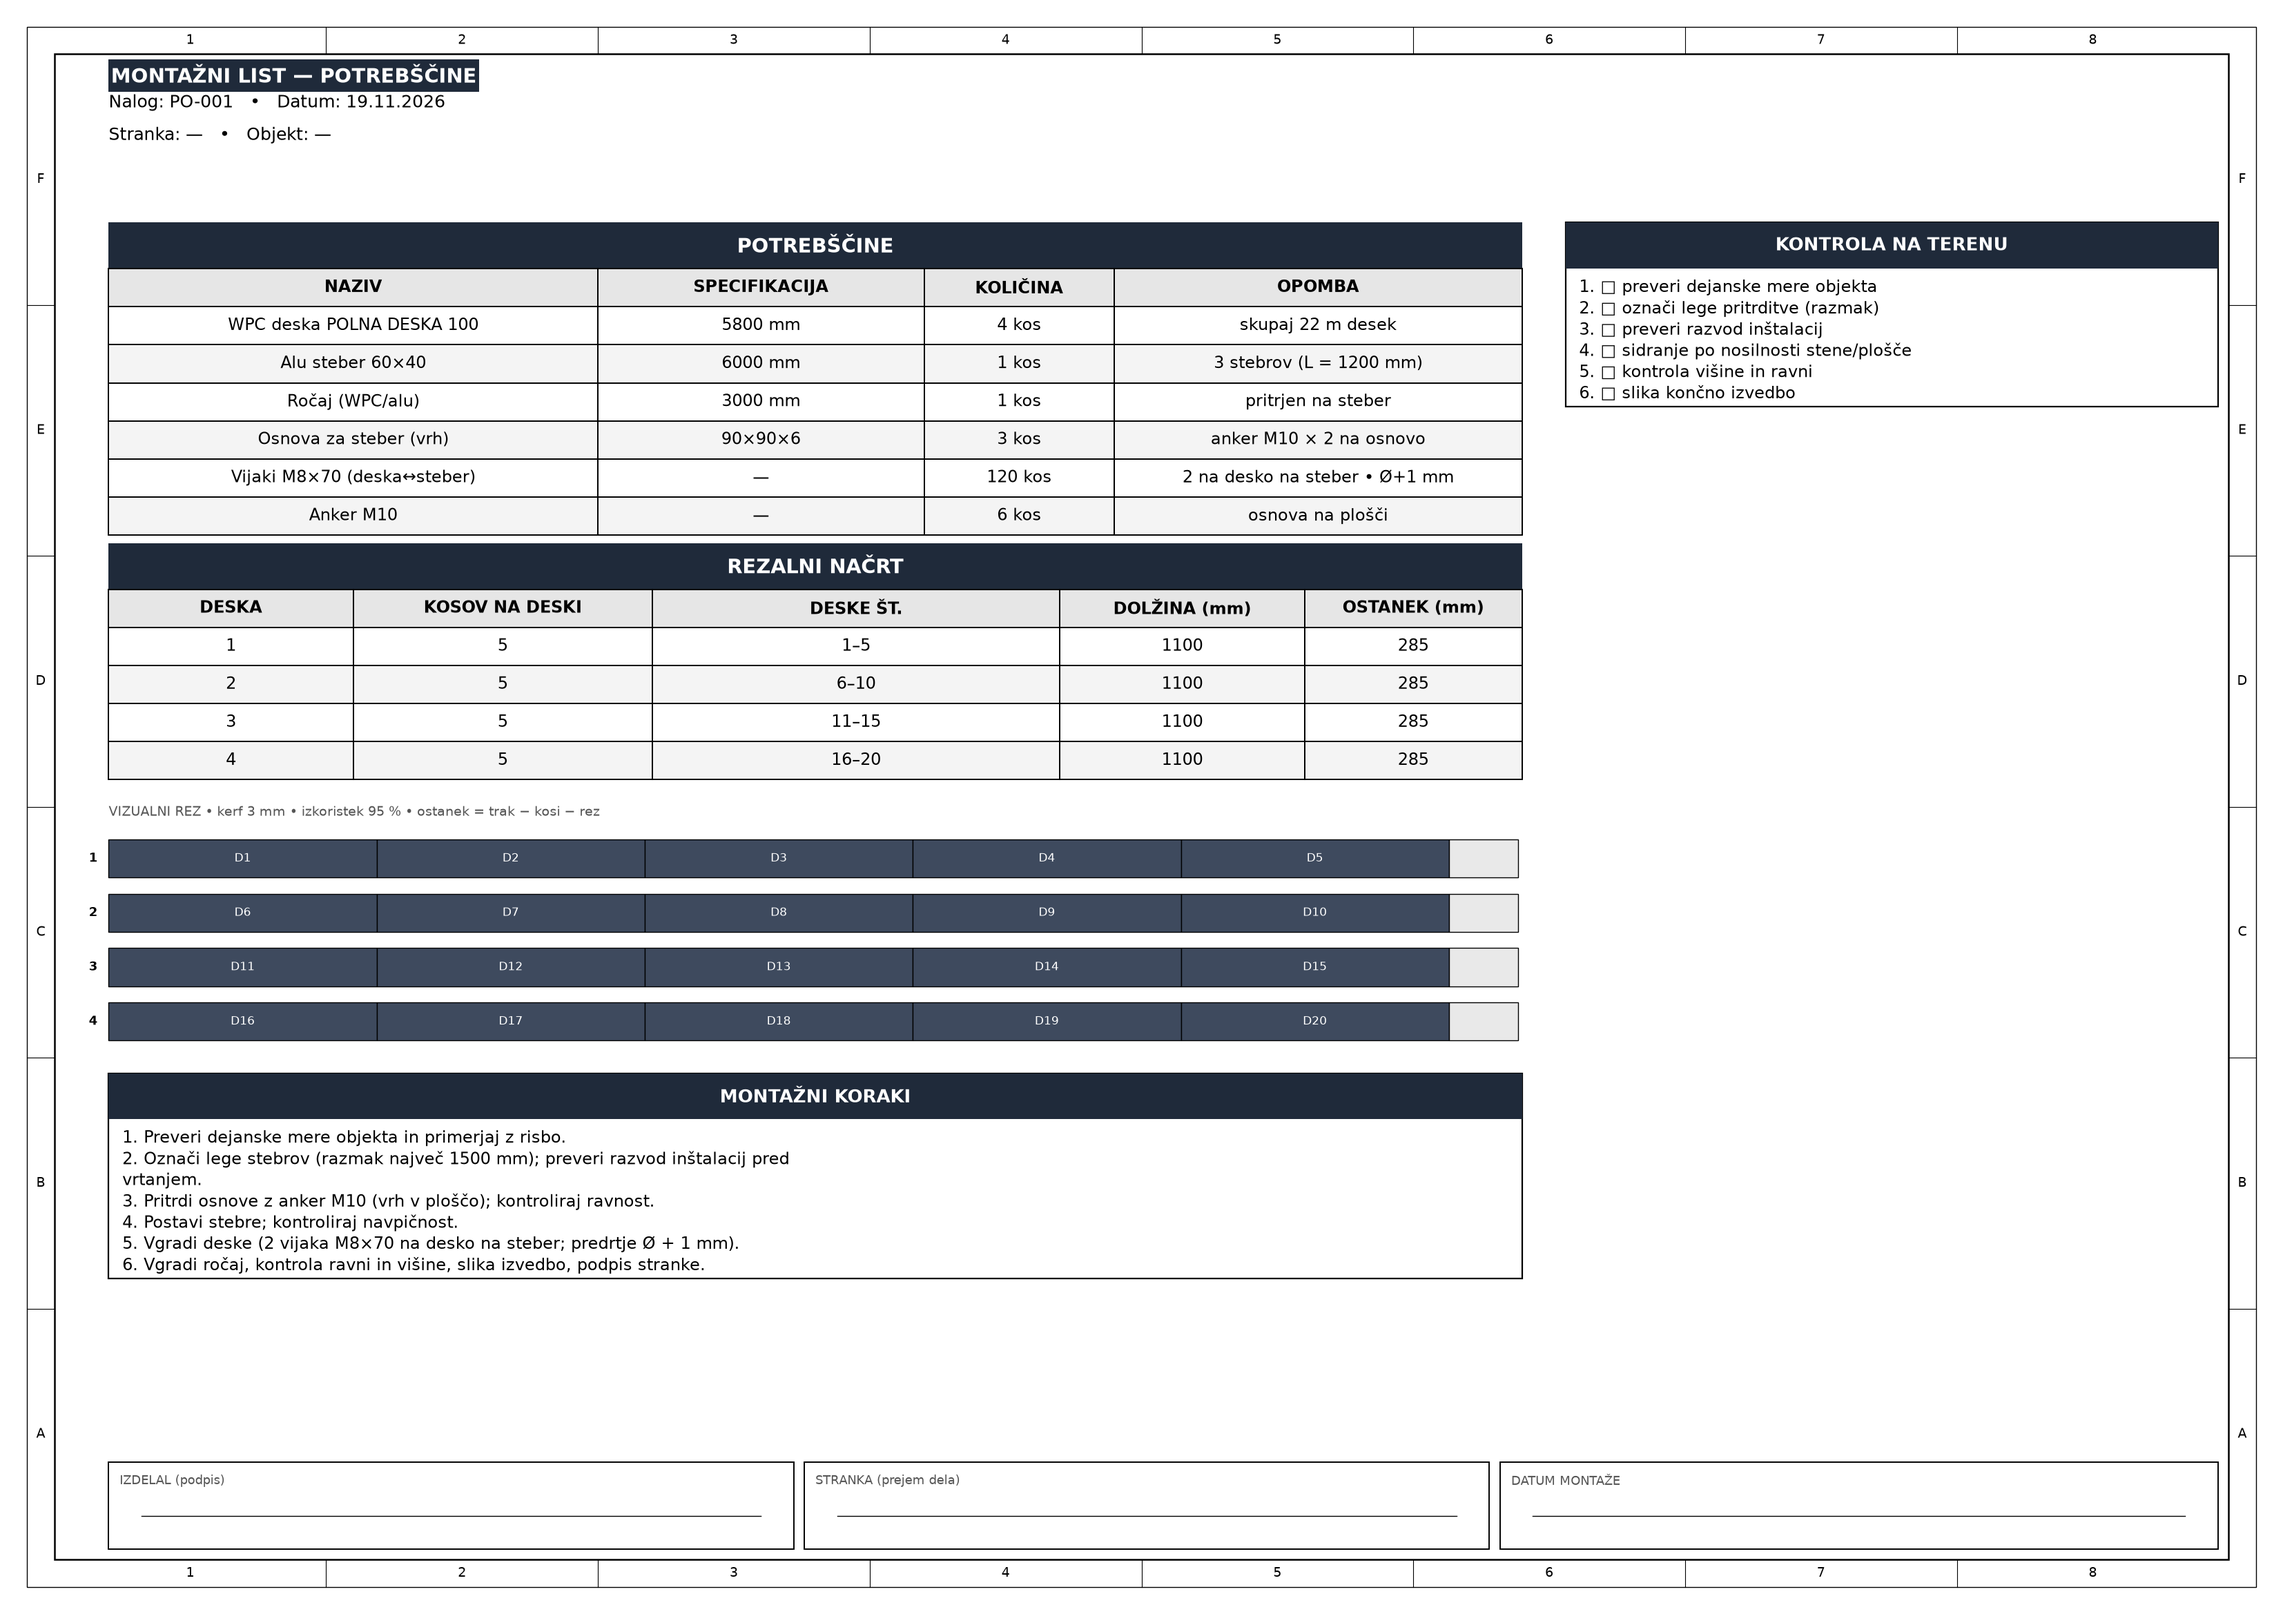
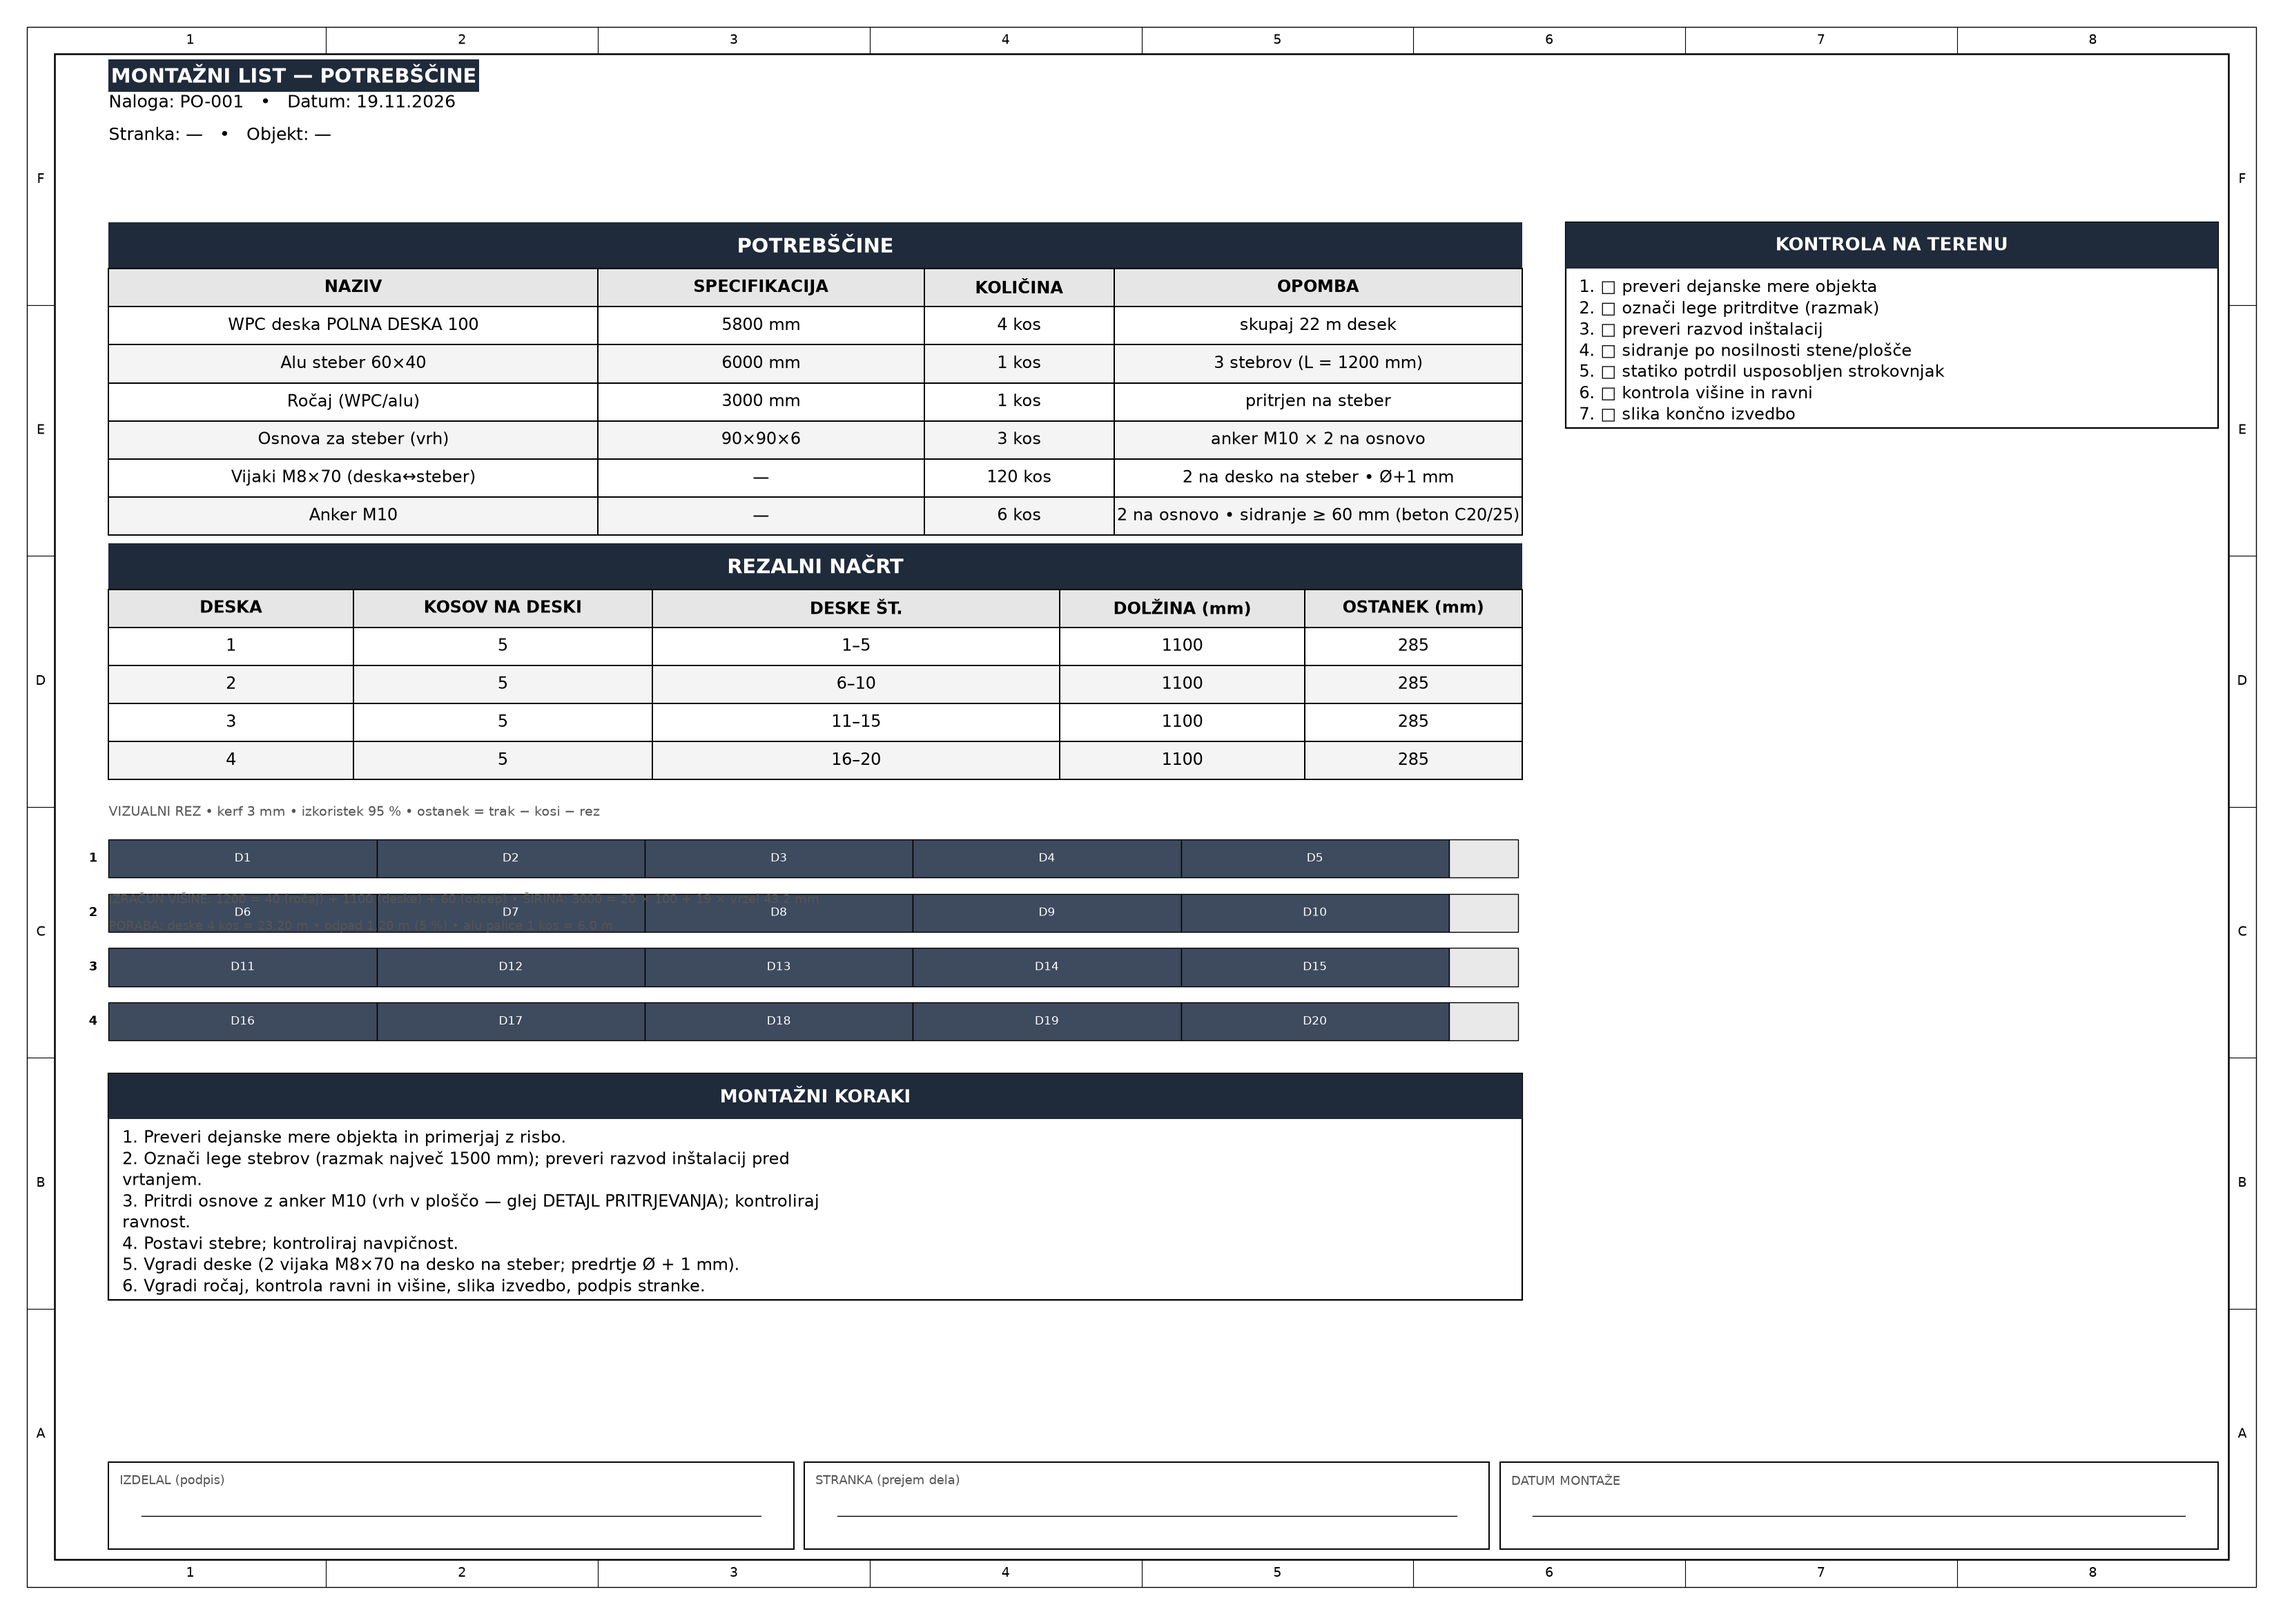
Popravki P0 po auditu: NameError montaznega lista pokončna, import yaml (predračun na Vercelu), tempfile namesto fiksne /tmp poti, samodejno nalaganje nastavitev, zaščita sir>=dolzina_deske, IMA_CV, off-by-one oznak, izkoristek po vseh trakih, izračun višine na pravilni osi, nabavne dolžine v predra

diff --git a/risba.py b/risba.py
@@ -1213,10 +1213,8 @@ def narisi_montazni_list(ax, c):
     pot = [
         [f"WPC deska {profil}", f"{fmt(dl_deske)} mm", f"{deske} kos",
          f"skupaj {fmt(n * sir / 1000)} m lamel"],
-        ["Alu profil 80×40×3", f"{fmt(dl_palice)} mm", f"{palice} kos",
-         "zgornji profil"],
-        ["Alu profil 60×40×3", f"{fmt(dl_palice)} mm", "1 kos",
-         "spodnji profil"],
+        ["Alu profili 80×40 (zg.) + 60×40 (sp.)", f"{fmt(dl_palice)} mm",
+         f"{palice} kos", f"obe sta dolgi {fmt(sir)} mm"],
         ["Nosilni nosilec 50×50×5", "—", f"{n_nos} kos",
          f"razmak ≤ {fmt(raz)} mm"],
         ["RF vijaki M8×70 (lamela↔profil)", "—", f"{vijaki} kos",
@@ -1238,11 +1236,11 @@ def narisi_montazni_list(ax, c):
                              fmt(sir), fmt(ost)])
         if deske > prikaz:
             rez_rows.append(["…", "", f"skupaj {deske} desk", "", ""])
-        for i in range(min(deske, 5)):
+        for i in range(deske):
             zac = min(na_desko, n - i * na_desko)
             prva = i * na_desko + 1
             viz_traki.append((dl_deske,
-                              [(f"L{prva + j + 1}", sir) for j in range(zac)]))
+                              [(f"L{prva + j}", sir) for j in range(zac)]))
     koraki = [
         "Preveri dejanske mere objekta in primerjaj z risbo.",
         f"Označi lego nosilcev (razmak največ {fmt(raz)} mm); "
@@ -1260,7 +1258,8 @@ def narisi_montazni_list(ax, c):
 
     # izračun višine + poraba/odpad (viden na montažnem listu)
     cona_z = zg[0] - sp[1]
-    y_iz = 197 - (8.5 + 7 + (len(rez_rows) - 1) * 7) - 22
+    n_vrst_r = (len(rez_rows) - 1) if rez_rows else 0
+    y_iz = 197 - (8.5 + 7 + n_vrst_r * 7) - 22
     ax.text(20, y_iz, f"IZRAČUN VIŠINE: {fmt(m['visina'])} = "
             f"{fmt(m['profil_v'])} (zgornji profil) + {fmt(cona_z)} "
             f"(lamele: {n} × {fmt(m['lamela_v'])} + {n - 1} × vrzel "
@@ -1273,11 +1272,13 @@ def narisi_montazni_list(ax, c):
             f"odpad {odp_m:.2f} m ({odp_m / por_m * 100:.0f} %) • alu "
             f"palice {palice} kos = {palice * dl_palice / 1000:.1f} m",
             fontsize=6.5, color="#555555", ha="left", va="center")
+    por_m = deske * dl_deske / 1000
+    por_alu = palice * dl_palice / 1000
     kolicine = {"postavke": [
-        (f"WPC deske {profil}", f"{fmt(n * sir / 1000)}", "m",
-         "wpc_deska_m", n * sir / 1000),
-        ("Alu profili 80×40 + 60×40", f"{fmt(2 * sir / 1000)}", "m",
-         "alu_m", 2 * sir / 1000),
+        (f"WPC deske {profil} (nabava)", f"{deske} kos = {fmt(por_m)}",
+         "m", "wpc_deska_m", por_m),
+        ("Alu profili (nabava)", f"{palice} kos = {fmt(por_alu)}", "m",
+         "alu_m", por_alu),
         ("Nosilni nosilci 50×50×5", f"{n_nos}", "kos", "nosilec_kos", n_nos),
         ("RF vijaki M8×70", f"{vijaki}", "kos", "vijak_kos", vijaki),
         ("Fasadni vijaki Ø8×80 + tipli", f"{n_nos * 2}", "kos",
@@ -1290,6 +1291,7 @@ def narisi_montazni_pokoncna(ax, c):
     """Stran 2 za predlogo "pokončna" (stebri + navpične deske)."""
     m = c["mere"]
     sir, vis = m["sirina"], m["visina"]
+    odcep = m["odcep"]
     p = razpored_pokoncna(m)
     n_d, n_s = p["n_desk"], p["n_stebrov"]
     deska_h = p["deske_h"]
@@ -1331,7 +1333,7 @@ def narisi_montazni_pokoncna(ax, c):
                              fmt(deska_h), fmt(ost)])
         if deske > prikaz:
             rez_rows.append(["…", "", f"skupaj {deske} desk", "", ""])
-        for i in range(min(deske, 5)):
+        for i in range(deske):
             zac = min(na_desko, n_d - i * na_desko)
             prva = i * na_desko + 1
             viz_traki.append((dl_deske,
@@ -1352,11 +1354,12 @@ def narisi_montazni_pokoncna(ax, c):
     montazni_osnova(ax, c, pot, rez_rows, viz_traki, koraki)
 
     cona_z = p["deske_z"][1] - p["deske_z"][0]
-    y_iz = 197 - (8.5 + 7 + (len(rez_rows) - 1) * 7) - 22
+    n_vrst_r = (len(rez_rows) - 1) if rez_rows else 0
+    y_iz = 197 - (8.5 + 7 + n_vrst_r * 7) - 22
     ax.text(20, y_iz, f"IZRAČUN VIŠINE: {fmt(vis)} = {fmt(m['rocaj_v'])} "
-            f"(ročaj) + {fmt(deska_h)} (deske: {n_d} × "
-            f"{fmt(m['deska_sirina'])} + {n_d - 1} × vrzel "
-            f"{p['vrzel']:.1f} mm) + {fmt(odcep)} (odcep)",
+            f"(ročaj) + {fmt(deska_h)} (deske) + {fmt(odcep)} (odcep) • "
+            f"ŠIRINA: {fmt(sir)} = {n_d} × {fmt(m['deska_sirina'])} + "
+            f"{n_d - 1} × vrzel {p['vrzel']:.1f} mm",
             fontsize=6.5, color="#555555", ha="left", va="center")
     por_s = deske * dl_deske / 1000
     odp_s = por_s - n_d * deska_h / 1000
@@ -1364,11 +1367,13 @@ def narisi_montazni_pokoncna(ax, c):
             f"odpad {odp_s:.2f} m ({odp_s / por_s * 100:.0f} %) • alu "
             f"palice {palice_s} kos = {palice_s * dl_palice / 1000:.1f} m",
             fontsize=6.5, color="#555555", ha="left", va="center")
+    por_s = deske * dl_deske / 1000
+    por_st = palice_s * dl_palice / 1000
     return {"postavke": [
-        (f"WPC deske {profil}", f"{fmt(n_d * deska_h / 1000)}", "m",
-         "wpc_deska_m", n_d * deska_h / 1000),
-        ("Alu stebri 60×40", f"{fmt(n_s * vis / 1000)}", "m",
-         "alu_m", n_s * vis / 1000),
+        (f"WPC deske {profil} (nabava)", f"{deske} kos = {fmt(por_s)}",
+         "m", "wpc_deska_m", por_s),
+        ("Alu stebri (nabava)", f"{palice_s} kos = {fmt(por_st)}", "m",
+         "alu_m", por_st),
         ("Ročaj", "1", "kos", "rocaj_kos", 1),
         ("Osnove za steber", f"{n_s}", "kos", "osnova_kos", n_s),
         ("Vijaki M8×70", f"{vijaki}", "kos", "vijak_kos", vijaki),

diff --git a/api/index.py b/api/index.py
@@ -4,10 +4,14 @@ import sys
 os.environ["MPLCONFIGDIR"] = "/tmp/mplconfig"   # Vercel: pisanje samo v /tmp
 sys.path.insert(0, os.path.join(os.path.dirname(__file__), ".."))
 
-import io
 import datetime
+import os
+import sys
+import tempfile
 
 from flask import Flask, request, send_file, Response
+
+import yaml
 
 import risba
 
@@ -151,6 +155,9 @@ def _stev(f, kljuc, privzeto):
 @app.route("/generiraj", methods=["POST"])
 def generiraj_web():
     f = request.form
+    # vsak uporabnik dobi svojo začasno datoteko (sočasni uporabniki)
+    fd_pdf, pdf_pot = tempfile.mkstemp(suffix=".pdf", prefix="risba_")
+    os.close(fd_pdf)
     pok = (f.get("predloga") or "ograja").strip().lower() == "pokončna"
     try:
         m = {
@@ -182,7 +189,7 @@ def generiraj_web():
             "stranka": (f.get("stranka") or "").strip() or None,
             "objekt": (f.get("objekt") or "").strip() or None,
             "datum": "", "merilo": "auto", "format": "A3",
-            "izhod": "/tmp/risba_web.pdf", "foto": "",
+            "izhod": pdf_pot, "foto": "",
             "barva": f.get("barva") or "Antracit",
             "profil": (f.get("profil") or ("POLNA DESKA 100" if pok
                         else "ROMB 67")).strip(),
@@ -203,9 +210,8 @@ def generiraj_web():
         risba.generiraj(cfg, dpi_png=80)
         varno = "".join(ch for ch in cfg["risba_st"]
                         if ch.isalnum() or ch in "-_") or "risba"
-        return send_file("/tmp/risba_web.pdf",
-                         mimetype="application/pdf", as_attachment=True,
-                         download_name=f"{varno}.pdf")
+        return send_file(pdf_pot, mimetype="application/pdf",
+                         as_attachment=True, download_name=f"{varno}.pdf")
     except ValueError as e:
         return html_napake([str(e)])
     except Exception as e:

diff --git a/merjenje.py b/merjenje.py
@@ -530,6 +530,12 @@ class App(tk.Tk):
         self._narisi()
 
     def _zaznaj_lam(self):
+        if not IMA_CV:
+            messagebox.showwarning(
+                "OpenCV ni nameščen",
+                "Zaznavanje zahteva OpenCV:\n"
+                "python -m pip install opencv-python")
+            return
         if not self.png_pot:
             return
         try:
@@ -554,6 +560,12 @@ class App(tk.Tk):
         self._narisi()
 
     def _zaznaj_vij(self):
+        if not IMA_CV:
+            messagebox.showwarning(
+                "OpenCV ni nameščen",
+                "Zaznavanje zahteva OpenCV:\n"
+                "python -m pip install opencv-python")
+            return
         if not self.png_pot:
             return
         if not self.det_pasovi:          # najprej območje ograje (pasovi)

diff --git a/vmesnik.py b/vmesnik.py
@@ -158,6 +158,7 @@ class App(tk.Tk):
         self._zgradi()
         self._preklopi_nacin()
         self._nalozi_zadnje()
+        self._izpolni_privzete()
 
     # ------------------------------------------------------------- gradnja
     def _zgradi(self):
@@ -518,6 +519,12 @@ class App(tk.Tk):
                 yaml.safe_dump(cfg, f, allow_unicode=True, sort_keys=False)
         except Exception:
             pass
+
+    def _izpolni_privzete(self):
+        """Prazna polja izpolni s privzetimi vrednostmi (prvi zagon)."""
+        for kljuc, vred in self._privzeti().items():
+            if kljuc in self.v and not self.v[kljuc].get().strip():
+                self.v[kljuc].set(str(vred))
 
     def _nalozi_zadnje(self):
         """Naloži zadnje nastavitve, če obstajajo (ob zagonu okna)."""
